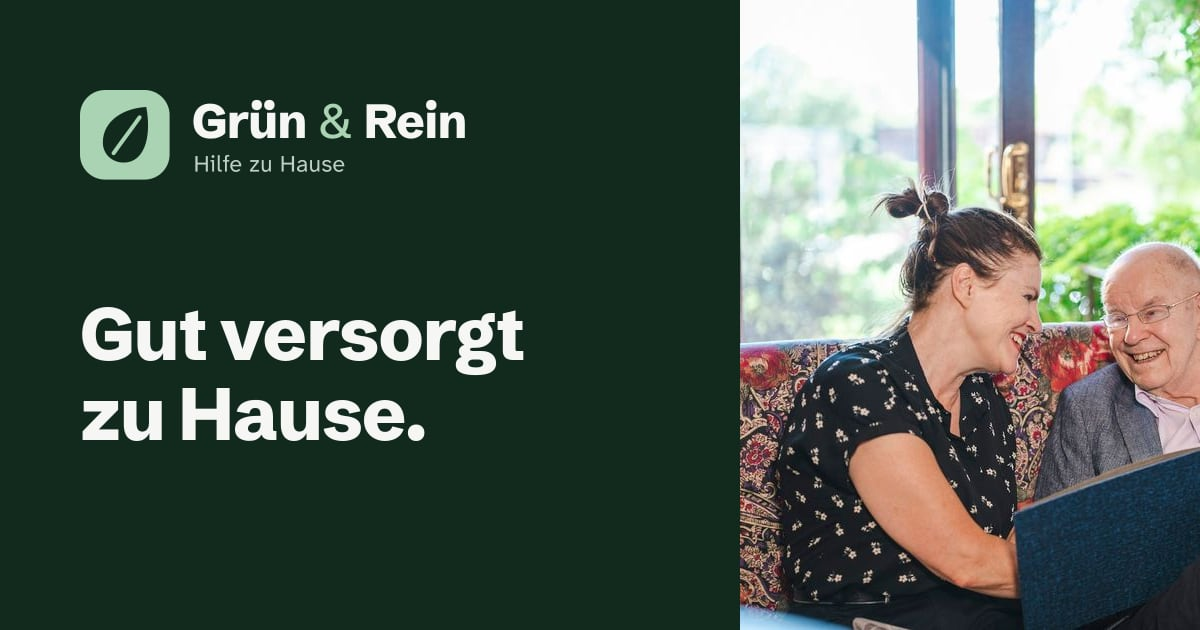
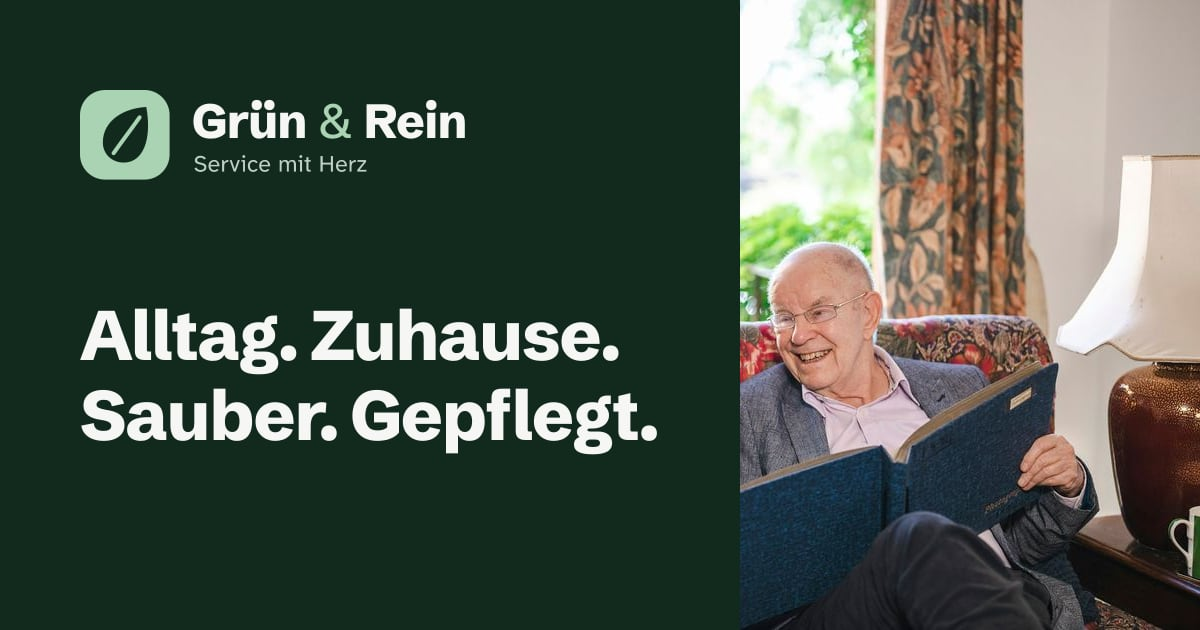
Spruch und Pflegekasse: Alltag. Zuhause. Sauber. Gepflegt., Service mit Herz, Abrechnung über die Pflegekasse

diff --git a/src/site.config.ts b/src/site.config.ts
@@ -51,11 +51,11 @@ export const site = {
   // Dieselben Zeiten für Suchmaschinen. Tage: Mo Tu We Th Fr Sa Su
   oeffnungszeiten: [{ tage: ['Mo', 'Tu', 'We', 'Th', 'Fr'], von: '08:00', bis: '18:00' }],
 
-  // Erst auf true stellen, wenn die Anerkennung für den Entlastungsbetrag (§ 45b SGB XI) vorliegt.
-  // Dann erscheint der Hinweis bei Alltagsbegleitung, Hauswirtschaft und Trauerbegleitung.
-  pflegekasse: false,
-  // [PLATZHALTER: aktueller Entlastungsbetrag in Euro je Monat, vor dem Freischalten prüfen]
-  entlastungsbetrag: '131',
+  // Abrechnung über die Pflegekasse (Entlastungsbetrag nach § 45b SGB XI) für Alltagsbegleitung,
+  // Hauswirtschaft und Trauerbegleitung. Laut Hussain und Ali möglich (03.10.2026).
+  // [PLATZHALTER: Anerkennung als Angebot zur Unterstützung im Alltag (Hessen) vorliegend? Stelle und Datum]
+  // Auf false stellen, falls die Anerkennung doch fehlt: Dann verschwinden alle Hinweise.
+  pflegekasse: true,
 };
 
 // Navigation im Kopf: höchstens sechs Punkte
